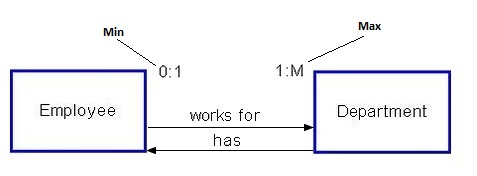
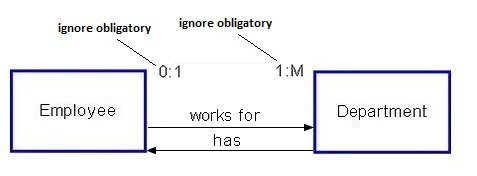
:rocket: Add cardinality studies

diff --git a/modules/database-theory-and-practice/modules/theory/database/cardinality.md b/modules/database-theory-and-practice/modules/theory/database/cardinality.md
@@ -1,81 +1,166 @@
-# Cardinalidade
+# Cardinality
 
-## Conteúdo
+## Contents
 
- - [01 - Cardinalidade 1:1](#01)
- - [02 - Cardinalidade 1:N](#02)
- - [03 - Cardinalidade N:M](#03)
- - [04 - Cardinalidade - Mínimo e Máximo](#min-max)
-
----
-
-<div id="01"></div>
-
-## 01 - Cardinalidade 1:1
-
-A **cardinalidade 1:1** indica que uma ocorrência da **Entidade A** pode se relacionar exclusivamente com uma ocorrência da **Entidade B** e vice-versa.
-
-Por exemplo:
-
-> Um vendedor ocupa um único escritório e um escritório pode ser ocupado por apenas um único vendedor (Isso é só um exemplo é claro).
-
-![img](images/saleman-works-office.png)  
+ - [Obligatory (Obrigatoriedade) & Cardinality](#intro)
+ - [Reading relationship cardinality](#reading-cardinality)
+ - [One to One](#one-to-one)
+ - [One to Many](#one-to-many)
+ - [Many to One](#many-to-one)
+ - [Many to Many](#many-to-many)
+ - [Cardinality Notations (examples)](#examples)
 
 ---
 
-<div id="02"></div>
+<div id="intro"></div>
 
-## 02 - Cardinalidade 1:N
+## Obligatory (Obrigatoriedade) & Cardinality
 
-Em um relacionamento **(1:N)** uma ocorrência da **Entidade A** pode se relacionar com várias ocorrências da **Entidade B**, porém, `o inverso não é permitido`.
+Before starting with database cardinality, let's understand some concepts. First, see the image below:
 
-Por exemplo:
+![img](images/card-01.png)  
 
-> Um vendedor atende muitos clientes, porém, cada cliente tem um vendedor específico (Isso é só um exemplo é claro).
+See that:
 
-![img](images/salesman-client.png)
+ - **The first trace:**
+   - Always represent the "obligatory".
+ - **the second trace:**
+   - Always represent the "cardinality".
 
----
+For example, see the image below to understand more easily:
 
-<div id="03"></div>
-
-## 03 - Cardinalidade N:M
-
-Em um relacionamento binário **muitos-para-muitos (N:M)** uma ocorrência da **Entidade A** pode se relcionar com muitas ocorrências da **Entidade B** e vice-versa.
-
-Por exemplo:
-
-> Um vendedor atende muitos clientes, e um cliente pode ser atendido por diversos vendedores.
+![img](images/trace-approach-names.png)  
 
 **NOTE:**  
-Na prática, o relacionamento **(N:M)** é dividido em **duas relações 1:N** e uma nova entidade é criada para representar o relacionamento.
+See we have different **obligatory** and **cardinality**. For example, the tables **users** and **profiles**:
 
-Veja o exemplo abaixo:
+![img](images/users-profiles.png)  
 
-![img](images/n-m.png)  
+> **NOTE:**  
+> **users** and **profiles** have different <u>obligatory</u>:
+> - **users** table <u>obligatory</u> need minimum one (1) user.
+> - **profiles** table <u>no obligatory</u> need minimum one (can be zero | 0) profile.
+
+There a numeric approach to represent that **obligatory** and **cardinality**:
+
+![img](images/number-approach.png)  
+
+**NOTE:**  
+See we have the same representation, however, using numbers.
 
 ---
 
-<div id="min-max"></div>
+<div id="reading-cardinality"></div>
 
-## 04 - Cardinalidade - Mínimo e Máximo
+## Reading relationship cardinality
 
-O **mínimo** e **máximo** de uma *cardinalidade* está relacionado ao tamanho da relação entre duas **Entidades A** e **B**.
+To read **relationship cardinality** between tables first we <u>ignore obligatory in the tables</u> and <u>only focus in tables cardinalities</u>.
 
-Por exemplo:
+For example, see the **relationship cardinality** between **Employee** and **Departament** tables:
 
-![img](images/cardinality-ex01.jpg)  
+![img](images/cardinality-ex01.jpg)
 
-Veja que na imagem acima:
+Ignoring obligatory in the tables, we have:
 
- - **um Funcionário:**
-   - Tem que trabalhar no mínimo em 1 departamento;
-   - E pode trabalhar em vários departamentos.
- - **Um Departamento:**
-   - Pode ter nenhum funcionário (zero/0);
-   - Ou vários funcionários.
+ - **The Employee can work (relationship) for many departments:**
+   - one-to-many.
+ - **Many Departments can have (relationship) one Employee:**
+   - many-to-one
+
+---
+
+<div id="one-to-one"></div>
+
+## One to One
+
+A relationship between a **husband** and **wife** can be considered as <u>one to one</u>, where:
+
+ - The <u>entities</u> are **Husband** and **Wife**.
+ - And the <u>relationship</u> is **Marriage**.
+
+> **NOTE:**  
+> This means, if you put this information in a DBMS table, a particular row of one table only associates itself with single and unique row of another table.
+
+For example, see the image below to understand more easily:
+
+![img](images/one-to-one.png)  
+
+
+---
+
+<div id="one-to-many"></div>
+
+## One to Many
+
+A relationship between a **Company (1)** and **Employees (n)** can be considered as <u>one to many</u>, where:
+
+ - The <u>entities</u> are **company** and **employees**.
+ - And the <u>relationship</u> is **pays**.
+
+> **NOTE:**  
+> This means, if you put this information in a DBMS table, a particular row of one table associates itself with multiple rows of another table.
+
+For example, see the image below to understand more easily:
+
+![img](images/one-to-many.png)  
+
+---
+
+<div id="many-to-one"></div>
+
+## Many to One
+
+A relationship between a **Students** and **University** can be considered as <u>many to one</u>, where:
+
+ - The <u>entities</u> are **Students** and **University**.
+ - And the <u>relationship</u> is study.
+
+> **NOTE:**  
+> This means, if you put this information in a DBMS table, multiple rows of student table associates itselves with single row of University table.
+
+For example, see the image below to understand more easily:
+
+![img](images/many-to-one.png)  
+
+---
+
+<div id="many-to-many"></div>
+
+## Many to Many
+
+A relationship between a **students** and **courses** can be considered as <u>many to many</u>, where:
+
+ - The <u>entities</u> are **students** and **courses**.
+ - And the <u>relationship</u> is enroll.
+
+> **NOTE:**  
+> This means, if you put this information in a DBMS table, a multiple rows of one table associates itself with multiple rows of another table.
+
+For example, see the image below to understand more easily:
+
+![img](images/many-to-many.png)  
+
+---
+
+<div id="examples"></div>
+
+## Cardinality Notations (examples)
+
+**Example-01:**  
+![img](images/cardinality-symbols-01.webp)  
+
+**Example-02:**  
+![img](images/ex-01.png)  
+
+**Example-03:**  
+![img](images/ex-02.png)  
 
 ---
 
 **REFERENCES:**  
-[My graduation in Analysis and Systems Development](https://www.uninassau.digital/)
+[Relacionamentos One-to-one, One-to-many e Many-to-many - Curso de SQL com MySQL - Aula 2](https://www.youtube.com/watch?v=4v-SzrpC738&list=PLbIBj8vQhvm2WT-pjGS5x7zUzmh4VgvRk&index=4)  
+[Cardinality Relationship for Data Models](https://prepinsta.com/dbms/relationship-cardinality/)  
+
+---
+
+Ro**drigo** **L**eite da **S**ilva - **drigols**
